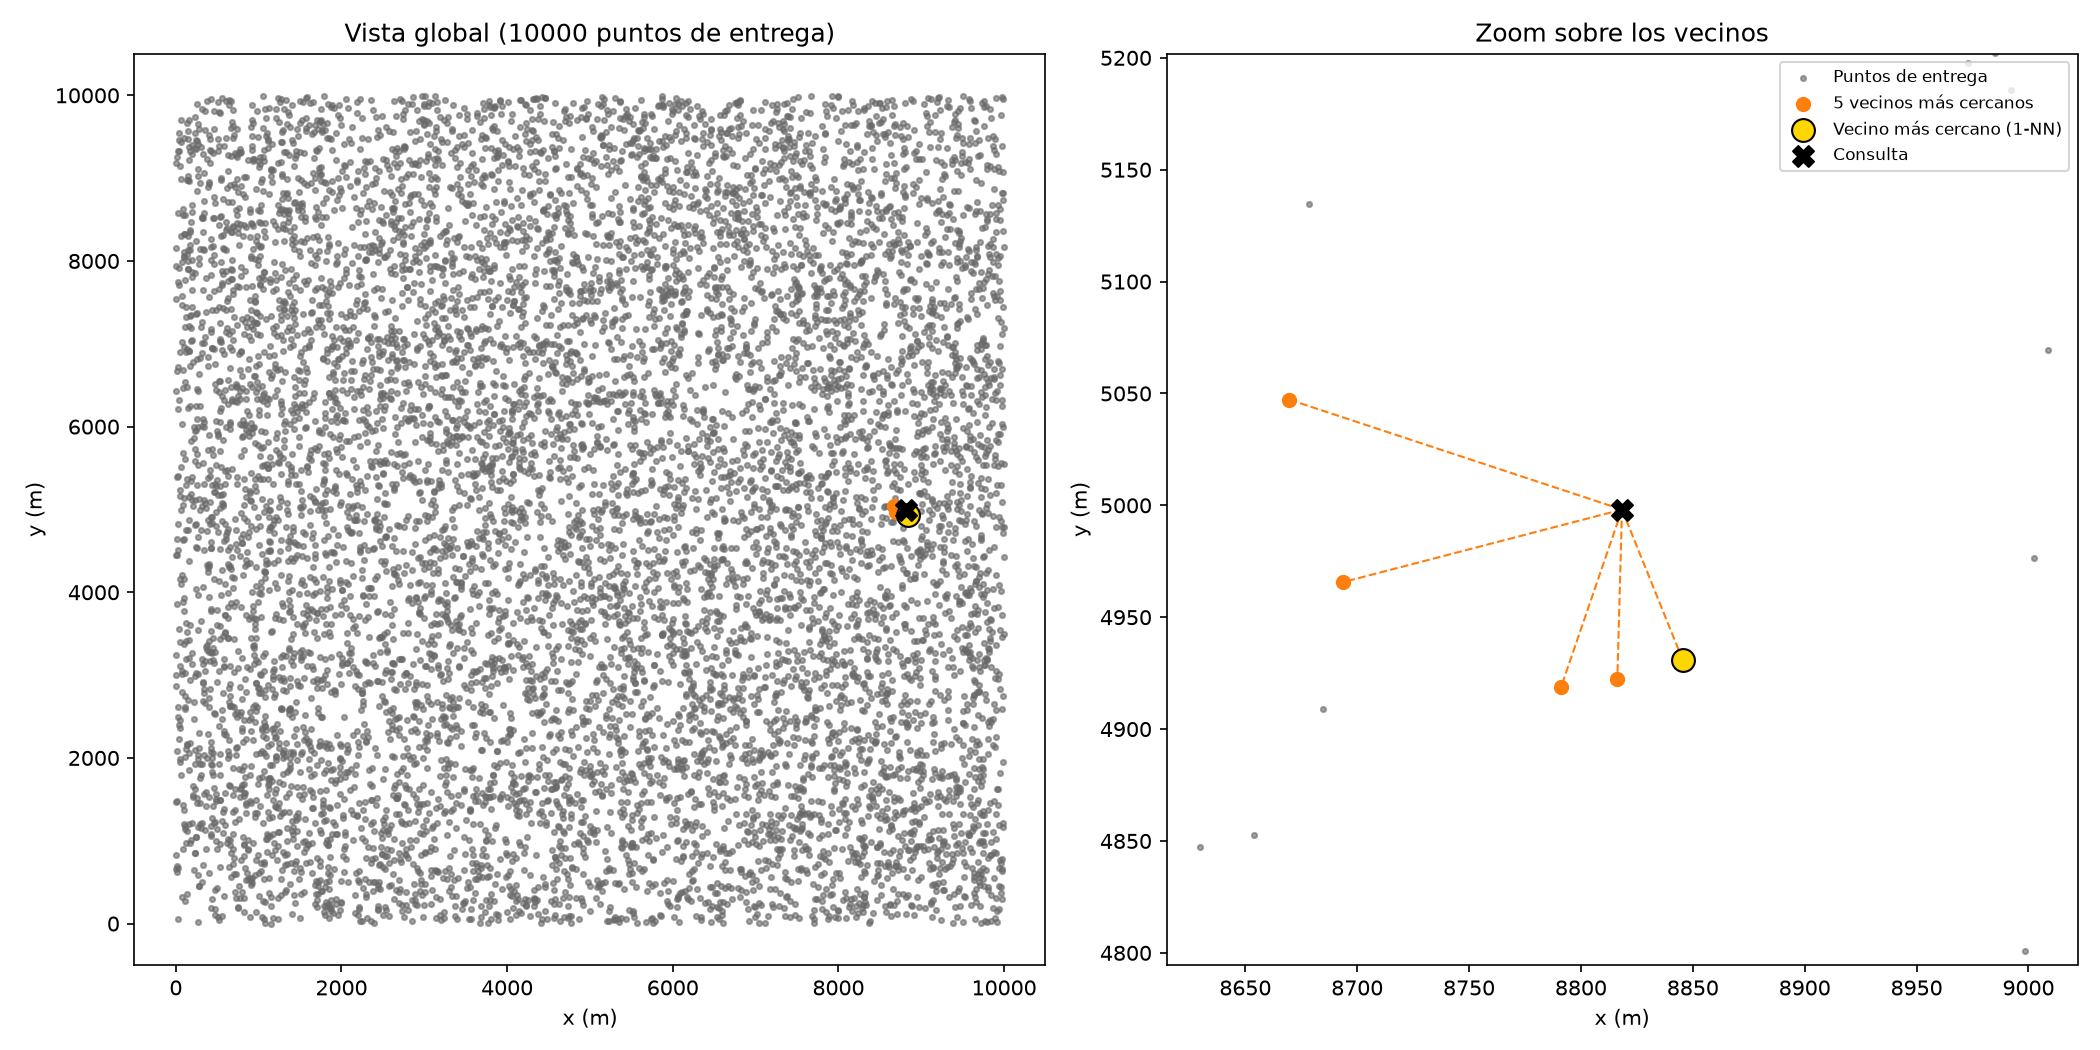
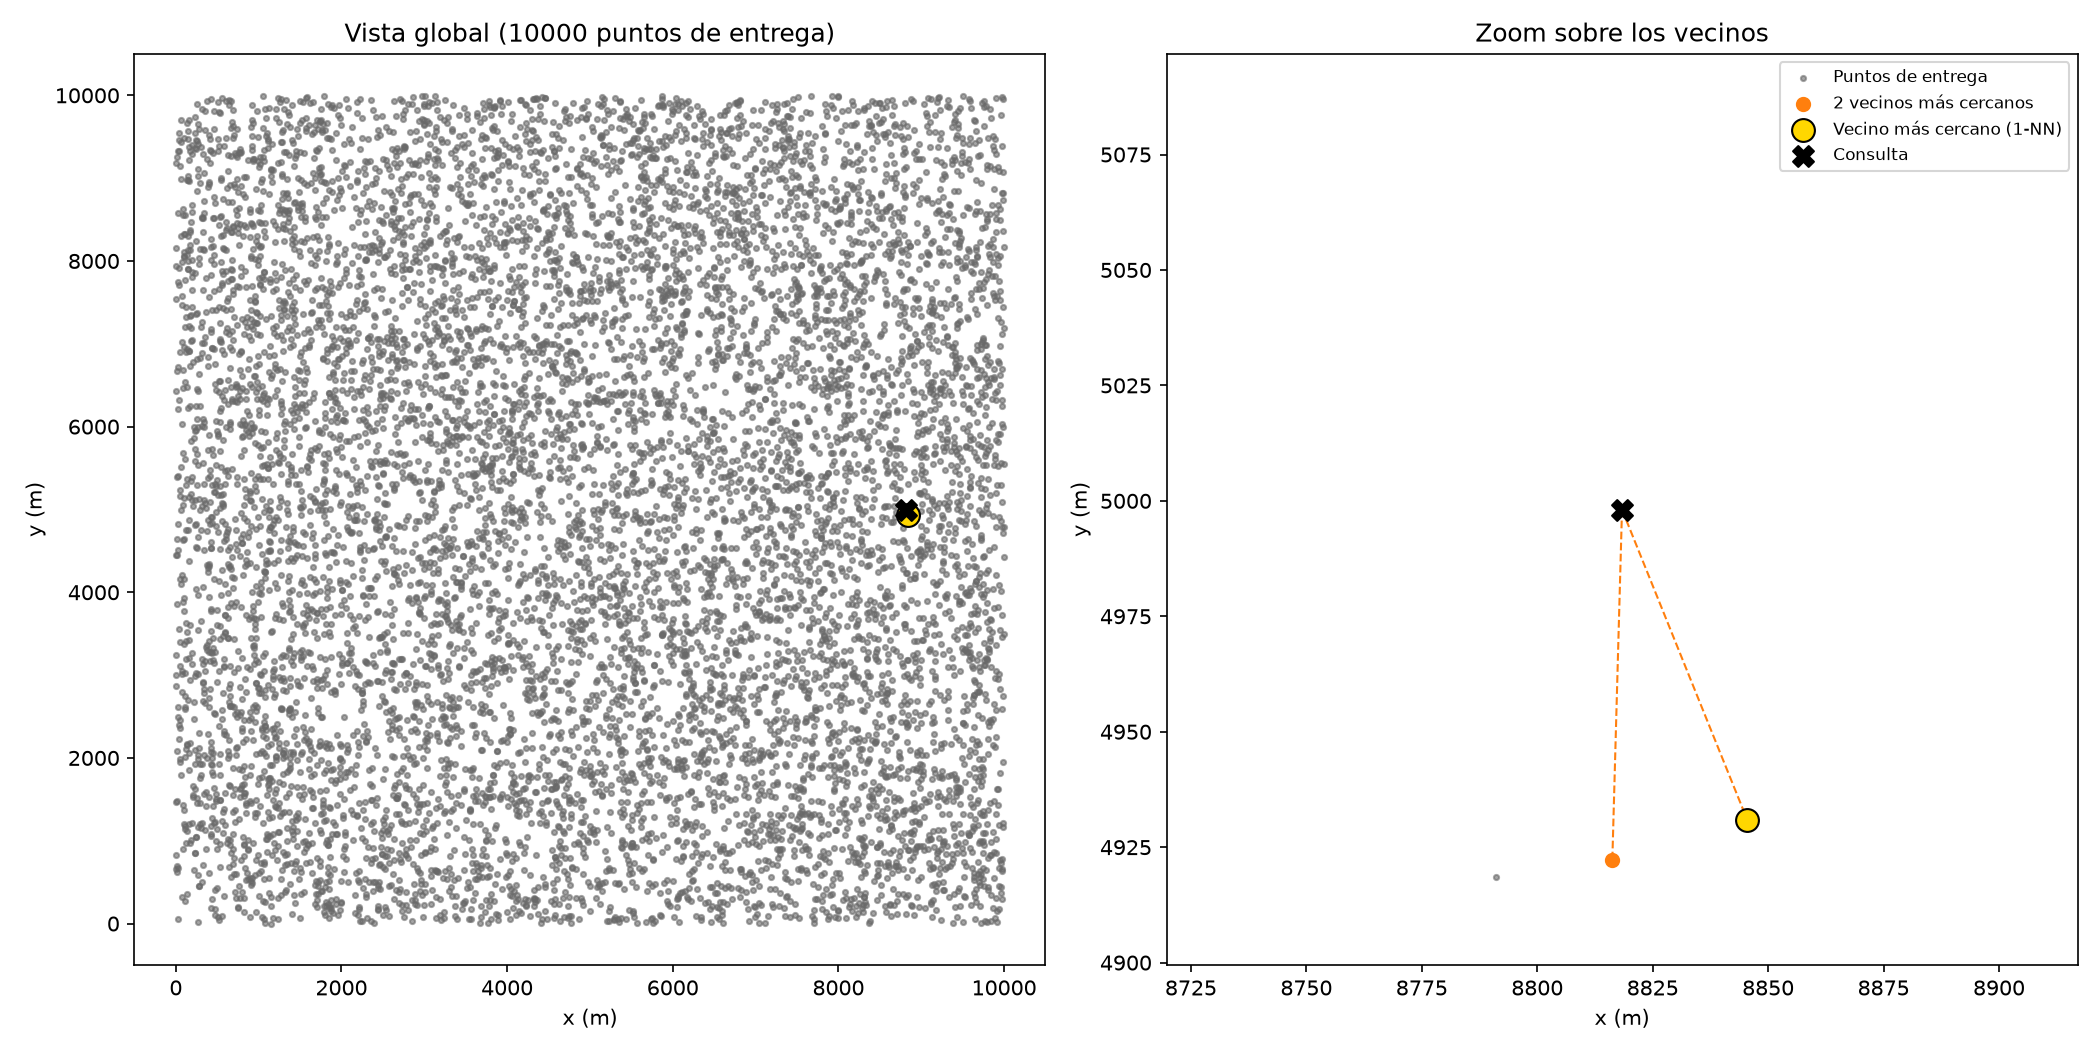
Clase encargada de generar reporte de la sección test.py

diff --git a/lab_04/test.py b/lab_04/test.py
@@ -6,7 +6,7 @@ import os
 import matplotlib.pyplot as plt
 import matplotlib.patches as patches
 from matplotlib.axes import Axes
-
+import pandas as pd
 
 class BruteForceAlgorithm:
     """
@@ -511,20 +511,209 @@ class Plotter:
             plt.show()
         plt.close(fig)
 
+
+class TestReport:
+    """
+        Genera el análisis de las pruebas realizadas a partir de datos medidos:
+        1. Resultado de las pruebas unitarias.
+        2. Estructura del árbol (profundidad, hojas, puntos por hoja) según capacity.
+        3. Cantidad de puntos encontrados por consultas de 500 m.
+        4. Distancias reales (en metros) de la consulta de las gráficas.
+        5. Verificación de que las imágenes se generaron.
+        Métodos cocreados con Claude AI, Anthropic (25/10/2026)
+    
+    """
+
+    @staticmethod
+    def collect_leaves(node: QuadNode) -> list[QuadNode]:
+        """Auxiliar: devuelve los nodos hoja del árbol (no sus puntos)."""
+        if not node.children:
+            return [node]
+
+        leaves: list[QuadNode] = []
+        for child in node.children:
+            leaves.extend(TestReport.collect_leaves(child))
+        return leaves
+
+    @staticmethod
+    def unit_tests_section(result: unittest.TestResult) -> list[str]:
+        """
+            Resume el resultado de unittest (las pruebas unitarias) y 
+            cuántas comparaciones contra fuerza bruta se hicieron 
+            (las pruebas 2, 3 y 6 hacen NUM_QUERIES consultas por cada capacidad).
+        """
+        status = "TODAS PASARON" if result.wasSuccessful() else "HAY FALLOS"
+        comparisons_per_test = NUM_QUERIES * len(CAPACITIES)
+        data = [
+            ("Pruebas ejecutadas", result.testsRun),
+            ("Fallos", len(result.failures)), # Una firmación assert no se cumplió.
+            ("Errores", len(result.errors)), # Una prueba no pudo completarse.
+            ("Estado", status),
+            ("Capacidades probadas", CAPACITIES),
+            ("Comparaciones por prueba (pruebas 2, 3 y 6)", f"{NUM_QUERIES} consultas x {len(CAPACITIES)} capacidades " f"= {comparisons_per_test}")
+        ]
+
+        df = pd.DataFrame(data, columns=["Indicador", "Resultado"])
+
+        return [ "1. PRUEBAS UNITARIAS", df.to_string(index=False), ""]
+
+    @staticmethod
+    def tree_section(points: list[Point]) -> list[str]:
+        """
+            Resume la estructura real del árbol para cada capacity.
+
+            La profundidad se compara con max_depth (20).
+            Si la hoja con más puntos supera capacity, el límite de
+            profundidad impidió subdividir suficientemente el árbol.
+        """
+        rows = []
+
+        for capacity in CAPACITIES:
+
+            tree = Quadtree.build(points, 0, 0, CITY_SIZE, CITY_SIZE, capacity=capacity)
+            leaves = TestReport.collect_leaves(tree.root)
+            depth = TestQuadtree.tree_depth(tree.root)
+            empty_leaves = sum(1 for leaf in leaves if not leaf.points)
+            max_points = max(len(leaf.points) for leaf in leaves)
+            cut_by_max_depth = max_points > capacity
+
+            rows.append({
+            "Capacidad": capacity,
+            "Profundidad": depth,
+            "No. Hojas": len(leaves),
+            "No. Hojas vacías": empty_leaves,
+            "No. Máx. puntos/hoja": max_points,
+            "¿max_depth cortó?": "Sí" if cut_by_max_depth else "No",
+            })
+
+            df = pd.DataFrame(rows)
+            return [
+                f"2. ESTRUCTURA DEL ÁRBOL ({len(points)} puntos, "
+                f"ciudad de {CITY_SIZE} x {CITY_SIZE} m)",
+                df.to_string(index=False),
+                "",
+            ]
+
+    @staticmethod
+    def range_section(tree: Quadtree) -> list[str]:
+        """
+                Cuántos puntos encuentra una consulta de 500 m, en promedio.
+                Resume los resultados de NUM_QUERIES = 200 consultas de range search
+                con un radio de RADIUS = 500 metros.
+        """
+        rng = random.Random(SEED)
+        counts: list[int] = []
+        for _ in range(NUM_QUERIES):
+            query: Point = (
+                rng.uniform(0, CITY_SIZE),
+                rng.uniform(0, CITY_SIZE)
+            )
+            counts.append(len(tree.range_search(query, RADIUS)))
+
+        data = {
+
+        "Métrica": [
+            "Promedio de puntos encontrados",
+            "Mínimo de puntos encontrados",
+            "Máximo de puntos encontrados",
+            "Consultas sin resultados",
+        ],
+        "Resultado": [
+            f"{sum(counts) / len(counts):.1f}",
+            min(counts),
+            max(counts),
+            counts.count(0), # Cuenta cuántas veces aparece el 0 en la lista counts
+            ],
+
+        }
+
+        df = pd.DataFrame(data)
+
+        return [
+            f"3. RANGE SEARCH (radio {RADIUS} m, "
+            f"{NUM_QUERIES} consultas aleatorias)",
+            df.to_string(index=False),]
+
+    
+    @staticmethod
+    def neighbors_section(query: Point, nearest: Point, k_nearest: list[Point]) -> list[str]:
+        """
+        Muestra las distancias reales en metros desde la consulta hasta
+        el vecino más cercano y el vecino más lejano de los k seleccionados.
+        """
+        dist = BruteForceAlgorithm.distance_squared
+
+        data = {
+            "Métrica": [
+                "Consulta (x, y)",
+                "Distancia al 1-NN",
+                f"Distancia al vecino {len(k_nearest)} (más lejano de los k)",
+            ],
+            "Resultado": [
+                f"({query[0]:.1f}, {query[1]:.1f}) m",
+                f"{dist(nearest, query) ** 0.5:.2f} m",
+                f"{dist(k_nearest[-1], query) ** 0.5:.2f} m",
+            ],
+        }
+
+        df = pd.DataFrame(data)
+
+        return [
+            "4. VECINOS MÁS CERCANOS (consulta de las gráficas)",
+            df.to_string(index=False),
+            "",
+        ]
+
+    @staticmethod
+    def save(lines: list[str], filename: str = "analisis_pruebas.txt") -> None:
+        """Guarda junto a test.py (UTF-8 por los tildes)."""
+        text = "\n".join(lines)
+        path = os.path.join(os.path.dirname(os.path.abspath(__file__)), filename)
+        with open(path, "w", encoding="utf-8") as file:
+            file.write(text)
+
 if __name__ == "__main__":
-    unittest.main(exit=False)
+    program = unittest.main(exit = False)
 
     rng = random.Random(SEED)
+    # Generamos 10 mil puntos aleatorios
     points = [(rng.uniform(0, CITY_SIZE), rng.uniform(0, CITY_SIZE))
               for _ in range(NUM_POINTS)]
-    tree = Quadtree.build(points, 0, 0, CITY_SIZE, CITY_SIZE)
+
+    # Construimos el árbol
+    tree = Quadtree.build(
+        points=points,
+        x_min= 0,
+        y_min= 0,
+        x_max= CITY_SIZE,
+        y_max= CITY_SIZE,
+        capacity= 1,
+        max_depth= 20
+    )
+
+    #Punto de consulta aleatorio
     query: Point = (rng.uniform(0, CITY_SIZE), rng.uniform(0, CITY_SIZE))
 
+    # Lista de puntos (range search)
     found = tree.range_search(query, RADIUS)
+    # Vecino más cercano
     nearest = tree.nearest_neighbor_search(query)
-    k_nearest = tree.k_nearest_neighbors_search(query, 5)
+    # K vecinos más cercanos
+    k_nearest = tree.k_nearest_neighbors_search(query)
+
     assert nearest is not None
 
+    # Gráficas
     Plotter.plot_range_search(points, query, RADIUS, found)
     Plotter.plot_nearest_neighbors(points, query, nearest, k_nearest)
     Plotter.plot_tree_divisions(points, tree)
+
+    report = ["=" * 60, "ANÁLISIS DE LAS PRUEBAS", "=" * 60, ""]
+
+    report.extend(TestReport.unit_tests_section(program.result))
+    report.extend(TestReport.tree_section(points))
+    report.extend(TestReport.range_section(tree))
+    report.extend(TestReport.neighbors_section(query, nearest, k_nearest))
+
+    print("\n".join(report))
+    TestReport.save(report)
